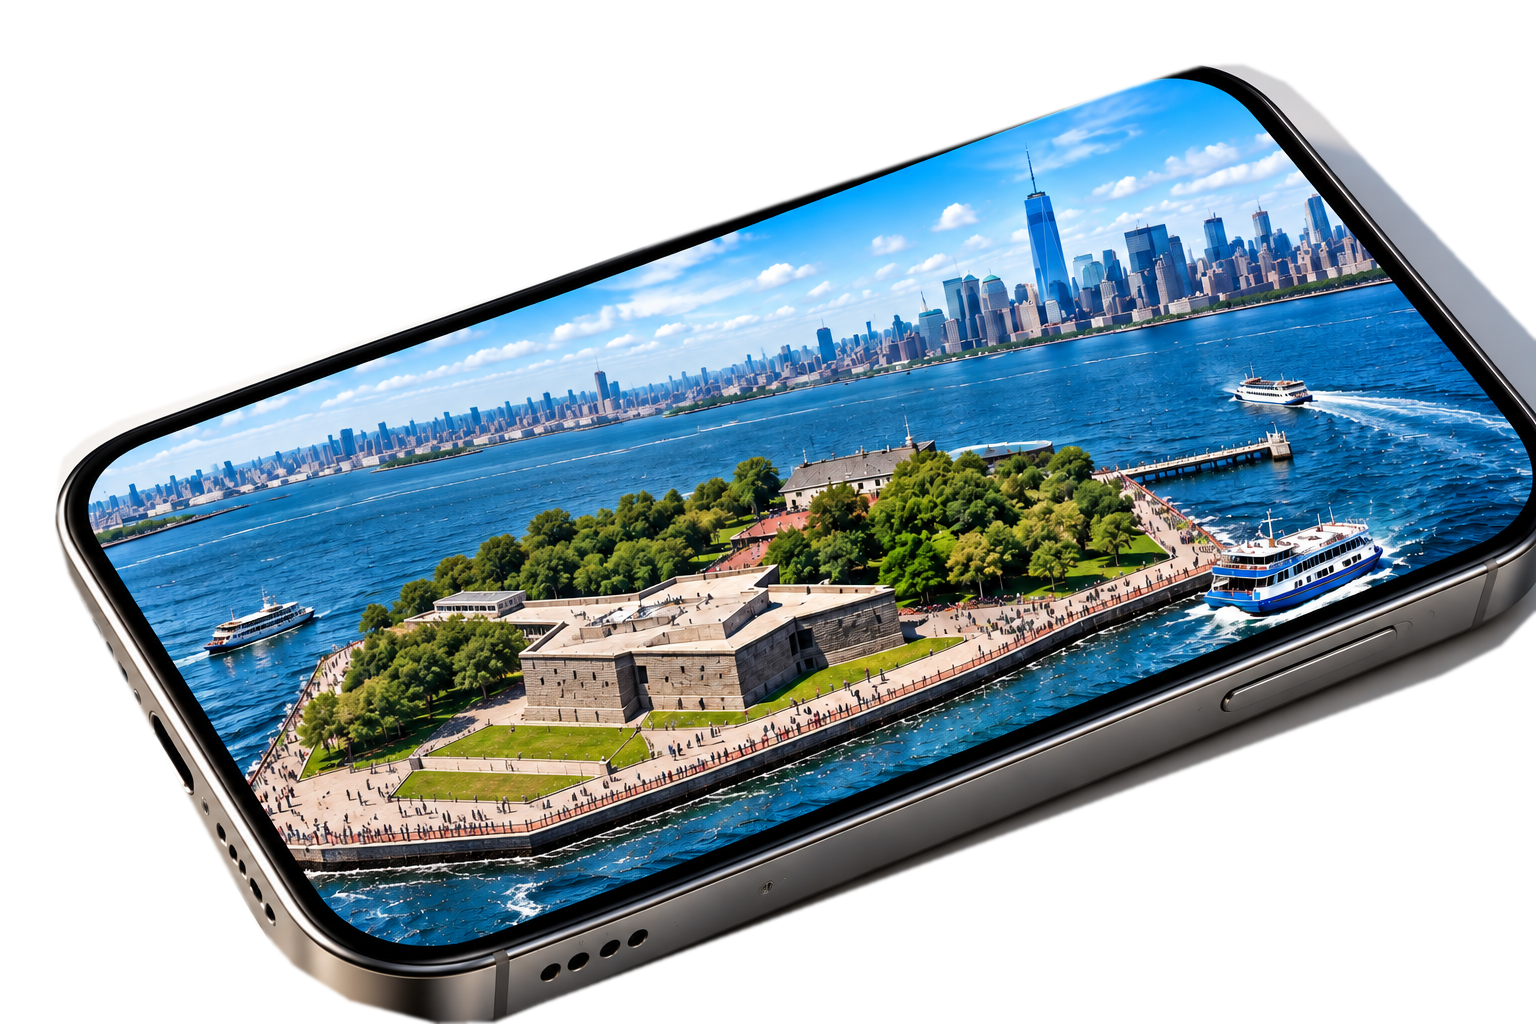
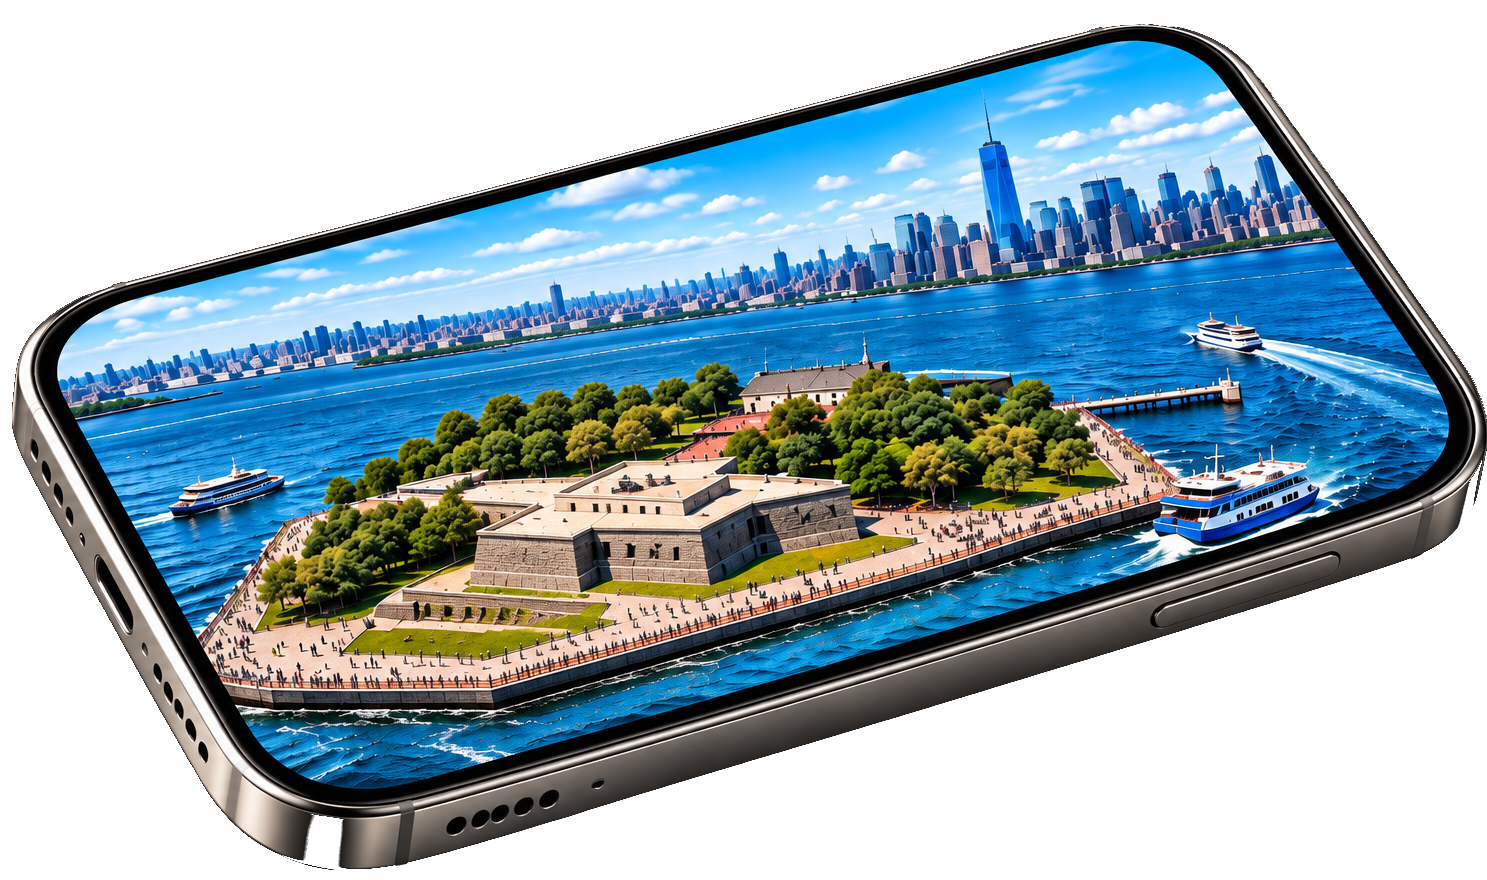
자유의 여신상 전체가 스마트폰 위로 솟아오르는 착시
자유의 여신상 전체가 스마트폰 위로 솟아오르는 착시

diff --git a/index.html b/index.html
@@ -1,35 +1,24 @@
-<!doctype html><html lang="ko"><head><meta charset="utf-8"><meta name="viewport" content="width=device-width,initial-scale=1"><title>자유의 여신상 | 카메라 Pop-out 3D</title><style>
-*{box-sizing:border-box}html,body{margin:0;background:#101824;color:#fff;font-family:system-ui,'Malgun Gothic',sans-serif}header{text-align:center;padding:12px 6px}h1{font-size:clamp(17px,3.5vw,25px);margin:3px}header p{font-size:12px;color:#b9cee1;margin:4px}.viewport{position:relative;margin:auto;width:min(100vw,1100px);height:min(73dvh,680px);min-height:350px;background:linear-gradient(135deg,#22364e,#080d15);overflow:hidden;touch-action:none;border:1px solid #334d64;border-radius:9px}video{position:absolute;inset:0;width:100%;height:100%;object-fit:cover;display:none}.viewport.camera-on video{display:block}.viewport.camera-on{background:#101820}.overlay{position:absolute;width:min(90%,850px);aspect-ratio:3/2;left:50%;top:50%;transform:translate(-50%,-50%) rotate(0deg) scale(1);transform-origin:center;touch-action:none;user-select:none;will-change:transform;filter:drop-shadow(0 12px 15px #0006)}.photo{position:absolute;inset:0;width:100%;height:100%;object-fit:fill;pointer-events:none}.overlay canvas{position:absolute;inset:0;width:100%;height:100%;display:block;pointer-events:none}.status{position:absolute;top:8px;left:8px;right:8px;width:max-content;max-width:95%;padding:7px 10px;background:#071b31d9;border-radius:8px;font-size:12px;pointer-events:none;z-index:2}.toolbar{display:flex;gap:7px;flex-wrap:wrap;justify-content:center;padding:12px 8px}button{background:#274966;border:1px solid #6d91af;color:white;padding:10px 12px;border-radius:8px;cursor:pointer;font-size:13px}button:disabled{opacity:.45}.note{text-align:center;color:#b5c8da;font-size:12px;line-height:1.65;padding:0 12px 18px}.viewport.placing{cursor:crosshair}.viewport.placing:after{content:'배치할 위치를 터치하세요';position:absolute;bottom:12px;left:50%;transform:translateX(-50%);background:#092b49d9;padding:9px 12px;border-radius:8px;pointer-events:none;white-space:nowrap}
-</style></head><body><header><h1>🗽 자유의 여신상 · 스마트폰 Pop-out 3D</h1><p>뉴욕 항구 배경 + GLB 모델 · 카메라 배치 · 회전 · 확대/축소</p></header><div id="viewport" class="viewport"><video id="video" autoplay playsinline muted></video><div id="overlay" class="overlay"><img class="photo" src="./liberty-phone-background.png" alt="자유의 여신상이 제거된 스마트폰과 뉴욕 항구 배경"><canvas id="gl"></canvas></div><div id="status" class="status">3D 모델 준비 중…</div></div><div class="toolbar"><button id="camera">📷 카메라 켜기</button><button id="place">📍 위치 배치</button><button id="motion">📱 기울기 회전</button><button id="left">↶ 회전</button><button id="right">↷ 회전</button><button id="plus">＋ 확대</button><button id="minus">－ 축소</button><button id="reset">처음 위치</button></div><div class="note">한 손가락 드래그: 전체 이동 · 두 손가락: 전체 확대/축소 및 회전<br>카메라 사용에는 HTTPS와 카메라 권한이 필요합니다. 기울기 회전은 지원되는 기기에서만 작동합니다.<br>※ 화면 합성형 체험이며 실제 공간 추적·고정형 AR은 아닙니다.</div>
-<script type="importmap">{"imports":{"three":"https://cdn.jsdelivr.net/npm/three@0.165.0/build/three.module.js","three/addons/":"https://cdn.jsdelivr.net/npm/three@0.165.0/examples/jsm/"}}</script>
-<script type="module">
+<!doctype html><html lang="ko"><head><meta charset="utf-8"><meta name="viewport" content="width=device-width,initial-scale=1"><title>자유의 여신상 · 스마트폰 Pop-out 3D</title><style>
+*{box-sizing:border-box}body{margin:0;background:#101b2a;color:#fff;font-family:system-ui,'Malgun Gothic',sans-serif}header{text-align:center;padding:12px 6px}h1{font-size:clamp(18px,3vw,28px);margin:0}header p{color:#a9c2d9;margin:4px}.viewer{width:min(98vw,1200px);height:min(72vh,760px);min-height:330px;margin:auto;position:relative;overflow:hidden;border:1px solid #35516d;border-radius:12px;background:linear-gradient(130deg,#233c55,#0b1726);touch-action:none}#video{position:absolute;inset:0;width:100%;height:100%;object-fit:cover;display:none}#content{position:absolute;left:50%;top:50%;width:100%;aspect-ratio:1487/880;transform:translate(-50%,-50%);transform-origin:center center;touch-action:none;will-change:transform}#bg{position:absolute;inset:0;width:100%;height:100%;object-fit:contain;pointer-events:none}#gl{position:absolute;inset:0;width:100%;height:100%;pointer-events:none}#msg{position:absolute;top:8px;left:8px;background:#07172ccf;border-radius:7px;padding:8px 12px;font-size:13px;max-width:85%}.buttons{display:flex;flex-wrap:wrap;gap:7px;justify-content:center;margin:12px auto;max-width:1150px;padding:0 8px}button{background:#294e70;color:white;border:1px solid #7198b7;border-radius:8px;padding:10px 12px;cursor:pointer}button:active{background:#4a7397}.tuning{max-width:900px;margin:4px auto 10px;display:flex;flex-wrap:wrap;gap:12px;align-items:center;justify-content:center;font-size:13px;color:#d6e8f5}.tuning label{display:flex;align-items:center;gap:6px}.tuning input{width:110px}footer{text-align:center;font-size:12px;color:#b8ccdc;padding:4px 8px 20px;line-height:1.6}
+</style></head><body><header><h1>🗽 자유의 여신상 · 스마트폰 Pop-out 3D</h1><p>복원된 스마트폰 배경 + 실제 GLB · 정면·크기 조절</p></header><main><div class="viewer" id="viewer"><video id="video" autoplay muted playsinline></video><div id="content"><img id="bg" src="./liberty-phone-background.png" alt="뉴욕 항구가 표시된 스마트폰"><canvas id="gl"></canvas></div><div id="msg">3D 모델을 불러오는 중…</div></div><div class="buttons"><button id="camera">📷 카메라 켜기</button><button id="place">📍 위치 배치</button><button id="left">↶ 여신상 왼쪽</button><button id="right">↷ 여신상 오른쪽</button><button id="plus">＋ 전체 확대</button><button id="minus">－ 전체 축소</button><button id="reset">처음 위치</button></div><div class="tuning"><label>여신상 방향 <input id="yaw" type="range" min="-180" max="180" step="1" value="0"><span id="yawVal">0°</span></label><label>여신상 높이 <input id="height" type="range" min="420" max="900" value="700" step="5"><span id="heightVal">700</span></label><label>좌우 <input id="posX" type="range" min="200" max="800" value="425" step="5"></label><label>상하 <input id="posY" type="range" min="500" max="850" value="690" step="5"></label></div><footer>한 손가락 드래그: 전체 이동 · 두 손가락: 전체 회전·확대/축소 · 여신상 방향 슬라이더: 얼굴 정면 맞춤<br>카메라를 켠 뒤 [위치 배치]를 누르고 화면을 터치하세요. 카메라 화면 위에 겹치는 합성 체험이며 실제 공간 추적 AR은 아닙니다.</footer></main>
+<script type="importmap">{"imports":{"three":"https://cdn.jsdelivr.net/npm/three@0.165.0/build/three.module.js","three/addons/":"https://cdn.jsdelivr.net/npm/three@0.165.0/examples/jsm/"}}</script><script type="module">
 import * as THREE from 'three';import {GLTFLoader} from 'three/addons/loaders/GLTFLoader.js';
-const viewport=document.getElementById('viewport'),overlay=document.getElementById('overlay'),video=document.getElementById('video'),status=document.getElementById('status');
-const canvas=document.getElementById('gl');let stream=null,placing=false,motion=false,baseMotion=null;
-const state={x:0,y:0,scale:1,rotation:0,tilt:0};
-function show(s){status.textContent=s}function renderCSS(){overlay.style.transform=`translate(calc(-50% + ${state.x}px),calc(-50% + ${state.y}px)) rotate(${state.rotation+state.tilt}deg) scale(${state.scale})`}
-function reset(){Object.assign(state,{x:0,y:0,scale:1,rotation:0,tilt:0});baseMotion=null;renderCSS()}function zoom(v){state.scale=Math.max(.3,Math.min(3.5,state.scale*v));renderCSS()}
-const renderer=new THREE.WebGLRenderer({canvas,alpha:true,antialias:true});renderer.setPixelRatio(Math.min(devicePixelRatio,2));renderer.setClearColor(0x000000,0);renderer.outputColorSpace=THREE.SRGBColorSpace;
-const scene=new THREE.Scene(),camera=new THREE.OrthographicCamera(-8,8,5.333,-5.333,.1,100);camera.position.set(0,0,22);camera.lookAt(0,0,0);
-scene.add(new THREE.HemisphereLight(0xffffff,0x506575,2.5));const light=new THREE.DirectionalLight(0xfff1d9,3);light.position.set(-5,8,10);scene.add(light);const fill=new THREE.DirectionalLight(0xb2d9ff,1.3);fill.position.set(5,1,6);scene.add(fill);
-const pivot=new THREE.Group();scene.add(pivot);
-// 배경 원본(1536×1024) 기준: 여신상 받침대가 놓일 예상 지점은 화면 가로 약 34%, 세로 약 77%.
-// 모델 크기와 좌표는 GLB마다 다르므로 이 수치는 최초 배치용입니다.
-const anchor={u:.34,v:.79,height:.74};
-function layoutModel(){const w=overlay.clientWidth,h=overlay.clientHeight;if(!w||!h)return;renderer.setSize(w,h,false);camera.left=-8;camera.right=8;camera.top=8*h/w;camera.bottom=-8*h/w;camera.updateProjectionMatrix();pivot.position.set((anchor.u-.5)*16,(.5-anchor.v)*16*h/w,0)}
-new ResizeObserver(layoutModel).observe(overlay);
-function loadModel(){new GLTFLoader().load('./statue_of_liberty_1.glb',g=>{const root=g.scene,box=new THREE.Box3().setFromObject(root),size=box.getSize(new THREE.Vector3()),center=box.getCenter(new THREE.Vector3());if(size.y<.001)throw Error('GLB 크기가 올바르지 않습니다');const targetHeight=16*anchor.height*(overlay.clientHeight/overlay.clientWidth);const factor=targetHeight/size.y;root.scale.setScalar(factor);root.position.set(-center.x*factor,-box.min.y*factor,-center.z*factor);pivot.add(root);show('준비 완료 · 카메라를 켜거나 화면을 움직여 보세요');},undefined,e=>{console.error(e);show('GLB 로드 실패: statue_of_liberty_1.glb 파일명과 저장 위치를 확인하세요')})}
-// 첫 로딩 시 이미지 비율(3:2)을 기준으로 GLB를 정규화. 이후 리사이즈 시 전체 화면 비율에 따라 함께 축소/확대.
-layoutModel();loadModel();renderer.setAnimationLoop(()=>renderer.render(scene,camera));
-const pointers=new Map();let lastCenter=null,lastDist=null,lastAngle=null;
-function metrics(){const pts=[...pointers.values()];if(!pts.length)return null;const c={x:pts.reduce((s,p)=>s+p.x,0)/pts.length,y:pts.reduce((s,p)=>s+p.y,0)/pts.length};if(pts.length<2)return {...c,dist:null,angle:null};const a=pts[0],b=pts[1];return {...c,dist:Math.hypot(b.x-a.x,b.y-a.y),angle:Math.atan2(b.y-a.y,b.x-a.x)*180/Math.PI}}
-viewport.addEventListener('pointerdown',e=>{if(e.target.closest('button'))return;if(placing){const r=viewport.getBoundingClientRect();state.x=e.clientX-(r.left+r.width/2);state.y=e.clientY-(r.top+r.height/2);placing=false;viewport.classList.remove('placing');renderCSS();show('위치 배치 완료 · 드래그/두 손가락으로 조작');return}pointers.set(e.pointerId,{x:e.clientX,y:e.clientY});viewport.setPointerCapture(e.pointerId);const m=metrics();lastCenter=m;lastDist=m.dist;lastAngle=m.angle});
-viewport.addEventListener('pointermove',e=>{if(!pointers.has(e.pointerId))return;pointers.set(e.pointerId,{x:e.clientX,y:e.clientY});const m=metrics();if(lastCenter){state.x+=m.x-lastCenter.x;state.y+=m.y-lastCenter.y}if(m.dist!==null&&lastDist!==null&&lastDist>0){state.scale=Math.max(.3,Math.min(3.5,state.scale*m.dist/lastDist));let d=m.angle-lastAngle;if(d>180)d-=360;if(d< -180)d+=360;state.rotation+=d}lastCenter=m;lastDist=m.dist;lastAngle=m.angle;renderCSS()});
-function end(e){pointers.delete(e.pointerId);const m=metrics();lastCenter=m;lastDist=m?.dist??null;lastAngle=m?.angle??null}viewport.addEventListener('pointerup',end);viewport.addEventListener('pointercancel',end);
-viewport.addEventListener('wheel',e=>{e.preventDefault();zoom(e.deltaY<0?1.07:1/1.07)},{passive:false});
-document.getElementById('camera').onclick=async()=>{if(stream){stream.getTracks().forEach(t=>t.stop());stream=null;video.srcObject=null;viewport.classList.remove('camera-on');document.getElementById('camera').textContent='📷 카메라 켜기';show('카메라 종료 · 배경과 GLB는 계속 표시됩니다');return}try{if(!navigator.mediaDevices?.getUserMedia)throw Error('HTTPS 및 카메라 지원 브라우저가 필요합니다');stream=await navigator.mediaDevices.getUserMedia({video:{facingMode:{ideal:'environment'}},audio:false});video.srcObject=stream;await video.play();viewport.classList.add('camera-on');document.getElementById('camera').textContent='📷 카메라 끄기';state.scale=.72;renderCSS();show('카메라 실행 중 · 위치 배치를 누르고 화면을 터치하세요')}catch(e){show('카메라 오류: '+e.message)}};
-document.getElementById('place').onclick=()=>{placing=true;viewport.classList.add('placing');show('원하는 위치를 화면에서 터치하세요')};
-document.getElementById('left').onclick=()=>{state.rotation-=10;renderCSS()};document.getElementById('right').onclick=()=>{state.rotation+=10;renderCSS()};document.getElementById('plus').onclick=()=>zoom(1.12);document.getElementById('minus').onclick=()=>zoom(1/1.12);document.getElementById('reset').onclick=()=>{reset();show('처음 위치로 복원했습니다')};
-function orientation(e){if(!motion||e.gamma==null)return;if(baseMotion===null)baseMotion=e.gamma;state.tilt=Math.max(-35,Math.min(35,(e.gamma-baseMotion)*.65));renderCSS()}
-document.getElementById('motion').onclick=async()=>{if(motion){motion=false;state.tilt=0;renderCSS();document.getElementById('motion').textContent='📱 기울기 회전';show('기울기 회전 종료');return}try{if(typeof DeviceOrientationEvent==='undefined')throw Error('기기 방향 센서를 지원하지 않습니다');if(typeof DeviceOrientationEvent.requestPermission==='function'){const p=await DeviceOrientationEvent.requestPermission();if(p!=='granted')throw Error('기울기 센서 권한이 거부되었습니다')}motion=true;baseMotion=null;window.addEventListener('deviceorientation',orientation);document.getElementById('motion').textContent='📱 기울기 끄기';show('기울기 회전 사용 중 · 기기를 좌우로 기울여 보세요')}catch(e){show('기울기 기능: '+e.message)}};
+const W=1487,H=880,content=document.getElementById('content'),viewer=document.getElementById('viewer'),msg=document.getElementById('msg');
+const renderer=new THREE.WebGLRenderer({canvas:document.getElementById('gl'),alpha:true,antialias:true});renderer.setPixelRatio(Math.min(devicePixelRatio,2));renderer.setSize(W,H,false);renderer.outputColorSpace=THREE.SRGBColorSpace;renderer.setClearColor(0,0);
+const scene=new THREE.Scene(),cam=new THREE.OrthographicCamera(-W/2,W/2,H/2,-H/2,.1,5000);cam.position.set(0,0,1500);cam.lookAt(0,0,0);scene.add(new THREE.HemisphereLight(0xffffff,0x657f83,3));const light=new THREE.DirectionalLight(0xfff7dc,3);light.position.set(-400,700,900);scene.add(light);
+const pivot=new THREE.Group();scene.add(pivot);let model=null;
+let yaw=0,modelHeight=700,modelX=425,modelY=690;
+function applyModel(){if(!model)return;const bounds=new THREE.Box3().setFromObject(model);/* bounds measured at original load; normalization stored */
+ pivot.position.set(modelX-W/2,H/2-modelY,0);pivot.rotation.y=yaw*Math.PI/180;model.scale.setScalar(modelHeight/model.userData.sourceHeight);model.position.set(-model.userData.centerX*model.scale.x,-model.userData.minY*model.scale.y,-model.userData.centerZ*model.scale.z);}
+new GLTFLoader().load('./statue_of_liberty_1.glb',g=>{model=g.scene;const box=new THREE.Box3().setFromObject(model),size=box.getSize(new THREE.Vector3());model.userData={sourceHeight:size.y,centerX:(box.min.x+box.max.x)/2,minY:box.min.y,centerZ:(box.min.z+box.max.z)/2};pivot.add(model);model.traverse(o=>{if(o.isMesh){o.frustumCulled=false}});applyModel();msg.textContent='모델 로딩 완료 · 얼굴이 측면이면 [여신상 방향]을 조절하세요.';setTimeout(()=>msg.style.display='none',5000)},undefined,e=>{msg.textContent='GLB 로딩 실패: statue_of_liberty_1.glb 파일명·위치를 확인하세요.';console.error(e)});
+const ids=['yaw','height','posX','posY'];ids.forEach(id=>document.getElementById(id).addEventListener('input',()=>{yaw=+document.getElementById('yaw').value;modelHeight=+document.getElementById('height').value;modelX=+document.getElementById('posX').value;modelY=+document.getElementById('posY').value;document.getElementById('yawVal').textContent=yaw+'°';document.getElementById('heightVal').textContent=modelHeight;applyModel()}));
+document.getElementById('left').onclick=()=>{document.getElementById('yaw').value=Math.max(-180,yaw-10);document.getElementById('yaw').dispatchEvent(new Event('input'))};document.getElementById('right').onclick=()=>{document.getElementById('yaw').value=Math.min(180,yaw+10);document.getElementById('yaw').dispatchEvent(new Event('input'))};
+let tx=0,ty=0,zoom=1,rotation=0,placing=false;function transform(){content.style.transform=`translate(calc(-50% + ${tx}px),calc(-50% + ${ty}px)) rotate(${rotation}deg) scale(${zoom})`}
+document.getElementById('plus').onclick=()=>{zoom=Math.min(2.5,zoom*1.12);transform()};document.getElementById('minus').onclick=()=>{zoom=Math.max(.35,zoom/1.12);transform()};document.getElementById('reset').onclick=()=>{tx=ty=rotation=0;zoom=1;transform();['yaw','height','posX','posY'].forEach((id,i)=>{document.getElementById(id).value=[0,700,425,690][i]});document.getElementById('yaw').dispatchEvent(new Event('input'))};
+let stream=null;document.getElementById('camera').onclick=async()=>{const v=document.getElementById('video');if(stream){stream.getTracks().forEach(t=>t.stop());stream=null;v.style.display='none';document.getElementById('camera').textContent='📷 카메라 켜기';return}try{stream=await navigator.mediaDevices.getUserMedia({video:{facingMode:{ideal:'environment'}},audio:false});v.srcObject=stream;v.style.display='block';await v.play();document.getElementById('camera').textContent='📷 카메라 끄기'}catch(e){msg.style.display='block';msg.textContent='카메라 실행 실패: HTTPS 접속과 카메라 권한을 확인하세요.'}};
+document.getElementById('place').onclick=()=>{placing=true;msg.style.display='block';msg.textContent='배치할 위치를 화면에서 터치하세요.'};
+const pointers=new Map();let lastCenter=null,lastDistance=null,lastAngle=null;
+function geom(){const a=[...pointers.values()];if(a.length===1)return {x:a[0].x,y:a[0].y};if(a.length>=2){const x=(a[0].x+a[1].x)/2,y=(a[0].y+a[1].y)/2;return{x,y,d:Math.hypot(a[1].x-a[0].x,a[1].y-a[0].y),a:Math.atan2(a[1].y-a[0].y,a[1].x-a[0].x)}}return null}
+viewer.addEventListener('pointerdown',e=>{if(placing){const r=viewer.getBoundingClientRect();tx=e.clientX-r.left-r.width/2;ty=e.clientY-r.top-r.height/2;placing=false;msg.style.display='none';transform();return}viewer.setPointerCapture(e.pointerId);pointers.set(e.pointerId,{x:e.clientX,y:e.clientY});const g=geom();lastCenter=g;lastDistance=g?.d??null;lastAngle=g?.a??null});viewer.addEventListener('pointermove',e=>{if(!pointers.has(e.pointerId))return;pointers.set(e.pointerId,{x:e.clientX,y:e.clientY});const g=geom();if(lastCenter){tx+=g.x-lastCenter.x;ty+=g.y-lastCenter.y}if(g.d&&lastDistance){zoom=Math.max(.35,Math.min(2.5,zoom*g.d/lastDistance));rotation+=(g.a-lastAngle)*180/Math.PI}lastCenter=g;lastDistance=g.d??null;lastAngle=g.a??null;transform()});function release(e){pointers.delete(e.pointerId);const g=geom();lastCenter=g;lastDistance=g?.d??null;lastAngle=g?.a??null}viewer.addEventListener('pointerup',release);viewer.addEventListener('pointercancel',release);
+renderer.setAnimationLoop(()=>renderer.render(scene,cam));
 </script></body></html>
